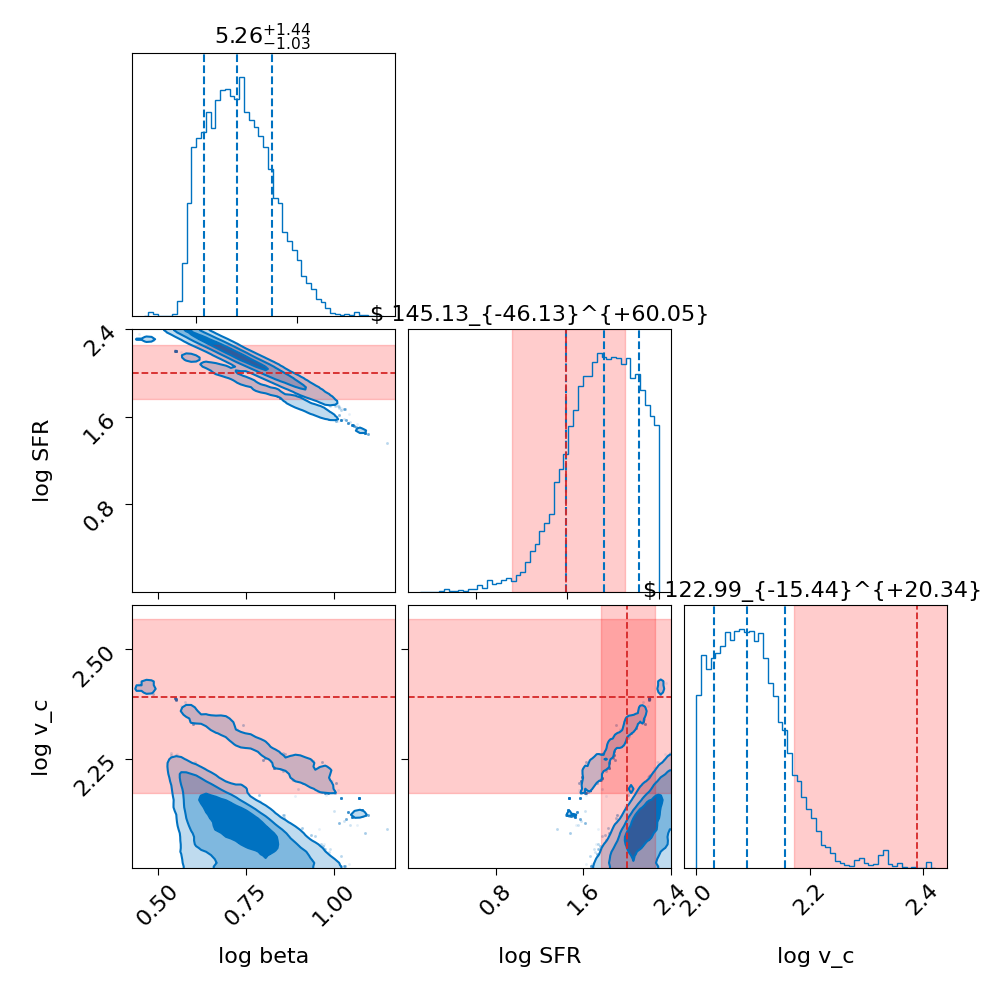
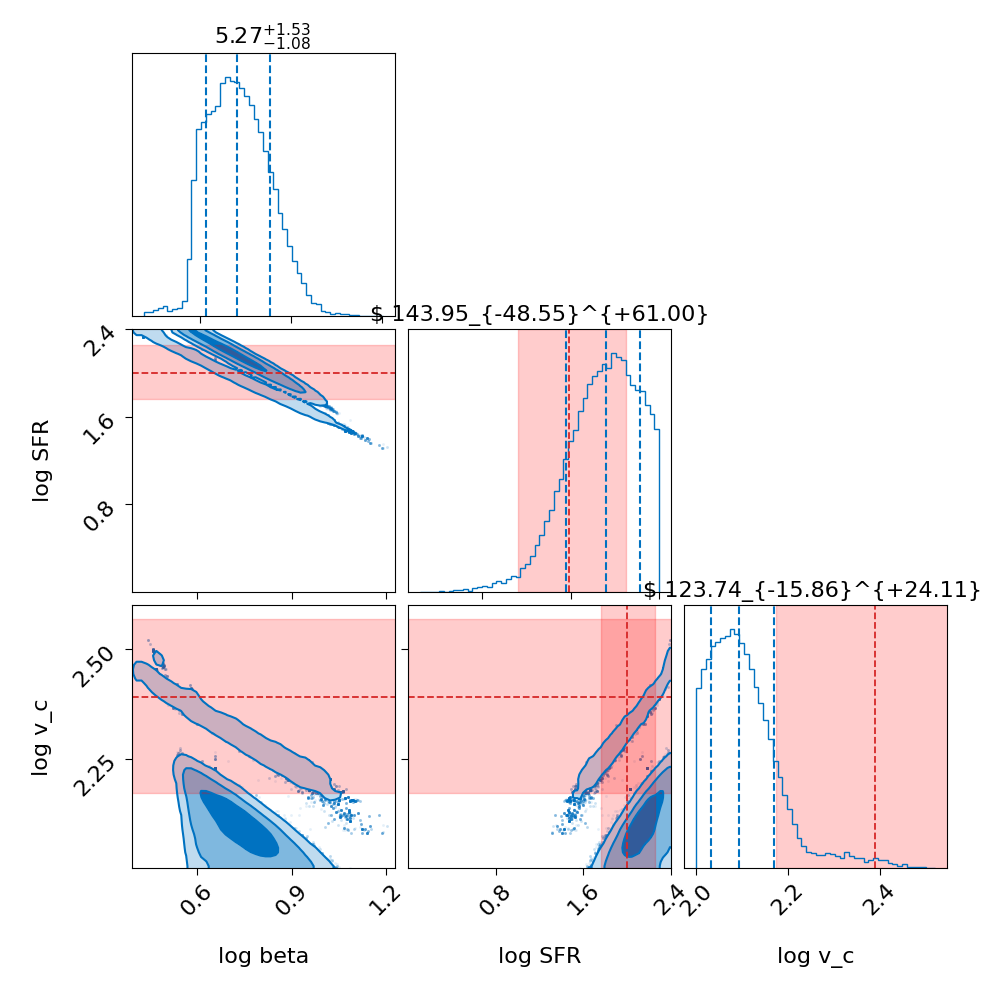
Last commit?

diff --git a/script/mcmc_post_analysis.py b/script/mcmc_post_analysis.py
@@ -25,7 +25,7 @@ from load_data import obs_data_list, names, names_CII_halo, observational_data_f
 stored_data_loc = "mac" # can be either quasar (for the machine is quasar in leiden) or mac (for mac laptop) or github (for github)
                         # or linux (for linux laptop)plot_logprob = False
 
-model = "new"
+model = "old"
 
 print_autocorr_time = False
 plot_logprob = False
@@ -40,7 +40,7 @@ thin = 1
 discard = 0
 
 nwalkers = 48
-nsteps = 10000#int(input("number of steps?"))
+nsteps = 100000#int(input("number of steps?"))
 
 
 int_data = int(input("data number?"))
